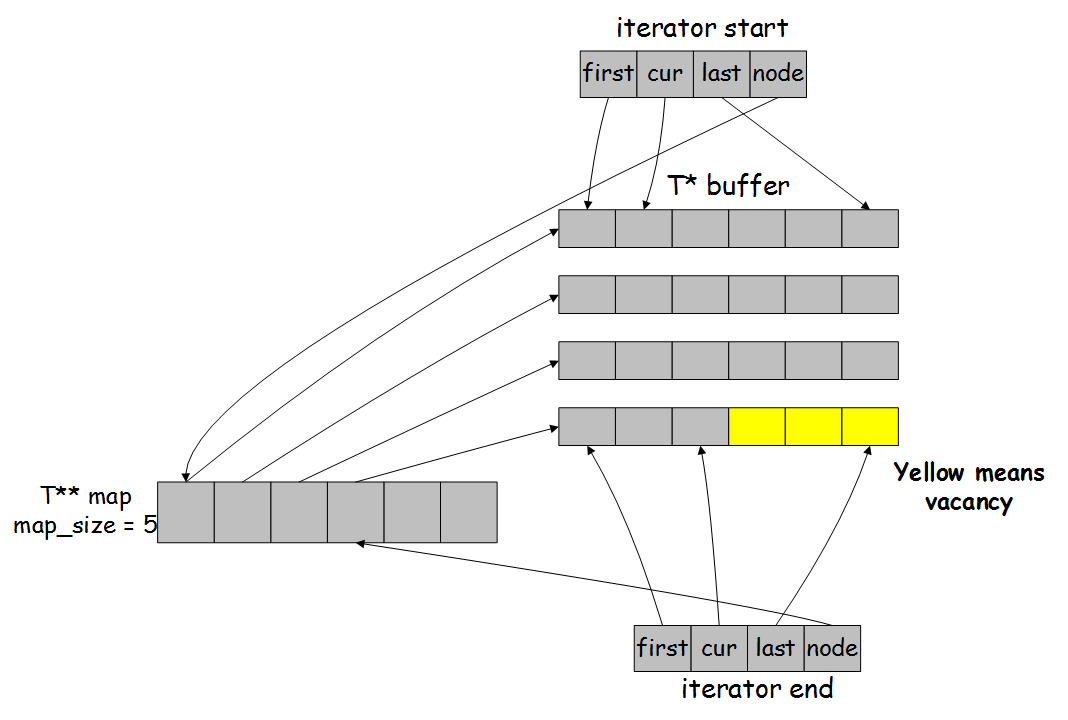
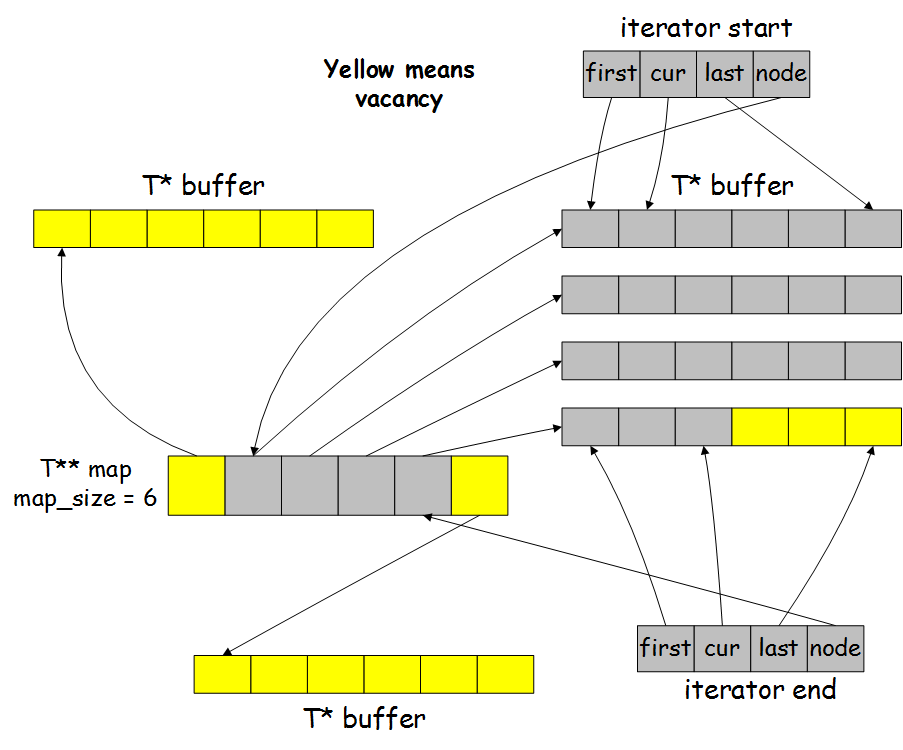
edit pic and README

diff --git a/Sample3-How_Deque_works/deque.h b/Sample3-How_Deque_works/deque.h
@@ -1,6 +1,10 @@
 #ifndef __DEQUE_H_
 #define __DEQUE_H_
 
+#ifndef __STL_USE_EXCEPTIONS
+#define __STL_USE_EXCEPTIONS
+#endif
+
 #include <cstddef>	/* size_t */
 #include "simple_alloc.h" /* alloc */
 #include "iterator.h"	/* __true_type __false_type */
@@ -134,8 +138,8 @@ public:
 	typedef __deque_iterator<T, T&, T*, BufSiz> iterator;
 	
 protected:
-	typedef simple_alloc<value_type, Alloc> data_allocator;
-	typedef simple_alloc<pointer, Alloc> map_allocator;
+	typedef simple_alloc<value_type, Alloc> data_allocator;//for element
+	typedef simple_alloc<pointer, Alloc> map_allocator;//for buffer
 	
 	map_pointer map;
 	size_type map_size;
@@ -154,7 +158,7 @@ protected:
 	void fill_initialize(size_type n, const value_type& value){
 		create_map_and_node(n);
 		map_pointer cur;
-		__STL_TRY{
+		__STL_TRY{//fill the Deque with value
 			for (cur = start.node; cur < finish.node; ++cur)
 				uninitialized_fill(*cur, *cur + buffer_size(), value);
 			uninitialized_fill(finish.first, finish.cur, value);
@@ -165,7 +169,7 @@ protected:
 	
 	void create_map_and_node(size_type num_elements){
 		size_type num_nodes = num_elements / buffer_size() + 1;
-		map_size = max(initial_map_size(), num_nodes + 2);
+		map_size = max(initial_map_size(), num_nodes + 2);//需要前后各预留两个buffer，以便扩充之用
 		map = map_allocator::allocate(map_size);
 		
 		map_pointer nstart = map + (map_size - num_nodes) / 2;

diff --git a/Sample3-How_Deque_works/stl_config.h b/Sample3-How_Deque_works/stl_config.h
@@ -7,10 +7,6 @@ struct __false_type{};
 
 #define __STL_TEMPLATE_NULL template<>
 
-#ifndef __STL_USE_EXCEPTIONS
-#define __STL_USE_EXCEPTIONS
-#endif
-
 # ifdef __STL_USE_EXCEPTIONS
 #   define __STL_TRY try
 #   define __STL_CATCH_ALL catch(...)

diff --git a/src/stl_config.h b/src/stl_config.h
@@ -7,9 +7,6 @@ struct __false_type{};
 
 #define __STL_TEMPLATE_NULL template<>
 
-#ifndef __STL_USE_EXCEPTIONS
-#define __STL_USE_EXCEPTIONS
-#endif
 
 # ifdef __STL_USE_EXCEPTIONS
 #   define __STL_TRY try

diff --git a/Sample3-How_Deque_works/README.md b/Sample3-How_Deque_works/README.md
@@ -4,9 +4,12 @@ Try to figure out how Deque works
 
 This is what the deque looks like, when
 
-* The map size is 5, which means it has 5 chunk of buffers
+* The map size is 6, which means it has 6 buffers
 
-* Each buffer can contain 6 elements at most, the last buffer has 3 vacancies, which means this deque's size is 21, and its capcity is 24.
+* Each buffer can contain 6 elements at most, the buffer pointer by end iterator has 3 vacancies, which means this deque's size is 21, and its capcity is 36.
+
+* The first buffer and the last buffer are all vacant, it makes Deque more efficient when either pushing back or pushing front, cause in many case, Deque don't need to allocate another two buffer(both back and front) dynamically.
+
 
 ![](https://raw.githubusercontent.com/Jameeeees/LeanSTL/master/Sample3-How_Deque_works/deque.png)
 
